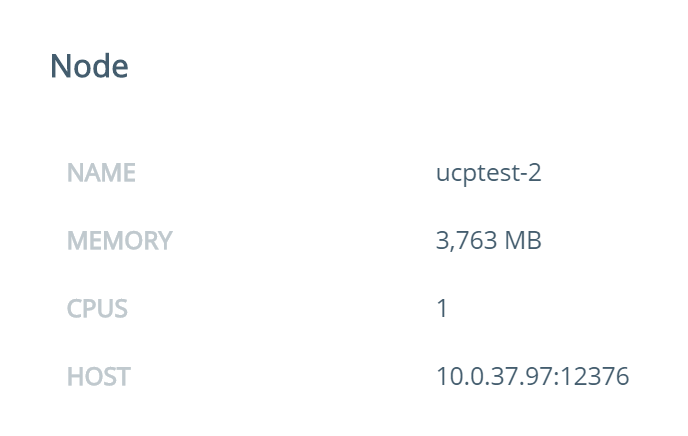
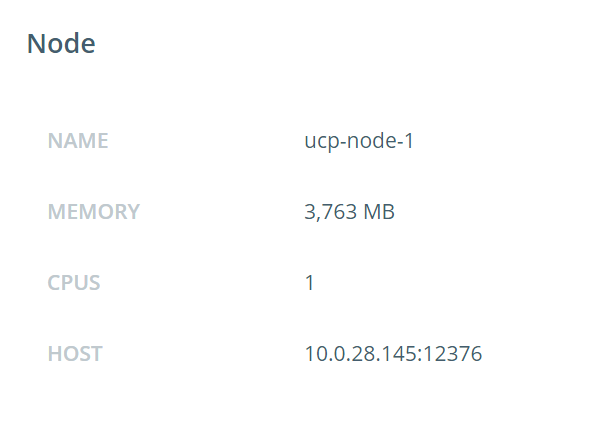
updated course 2 task 2 to UCP 1.1

diff --git a/UCP02_Task_2-Deploy_a_container.md b/UCP02_Task_2-Deploy_a_container.md
@@ -19,9 +19,7 @@ In this exercise we will deploy an NGINX container
 7. You should now see your container listed.   
 
   ![](images/ucp02_t2_containers.PNG)
-8. Click on the container details button on the right side and check the port mappings section  
-
-  ![](images/ucp02_t2_containers_withhighlight.png)
+8. Click on the row where the container is listed to see the full container details. Then scroll down to the **Ports** section of the page to check the port mappings  
 
   ![](images/ucp02_t2_portmappings.PNG)
 
@@ -33,7 +31,7 @@ Access the NGINX server on your web browser. You will need to specify the hostna
 
    ![](images/ucp02_t2_container_details_node.PNG)
 
-   In this particular example, our NGINX container is running on the **ucptest-2** node. The host IP is 10.0.37.97. However in our AWS setup, this 
+   In this particular example, our NGINX container is running on the **ucp-node-1** node. The host IP is 10.0.28.145. However in our AWS setup, this 
    is the private IP address of the node. You won't be able to use this address on your web browser. We will need the public IP or hostname. The AWS instance 
    details that your instructor has provided to you should contain the hostname. In our case it is **ec2-54-213-151-242.us-west-2.compute.amazonaws.com**. 
 
